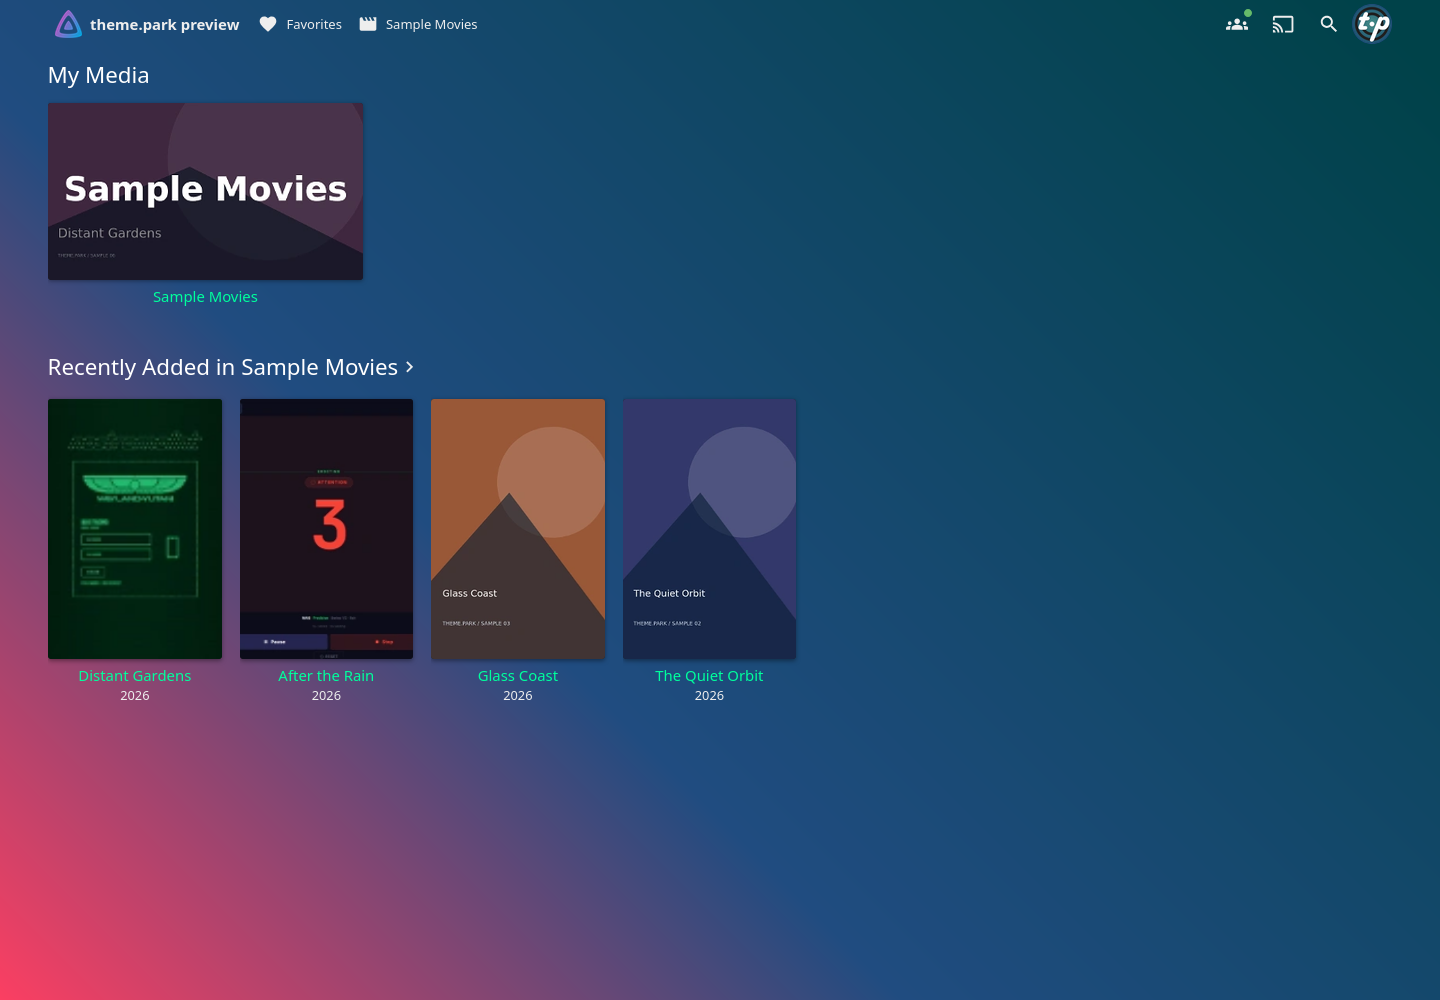
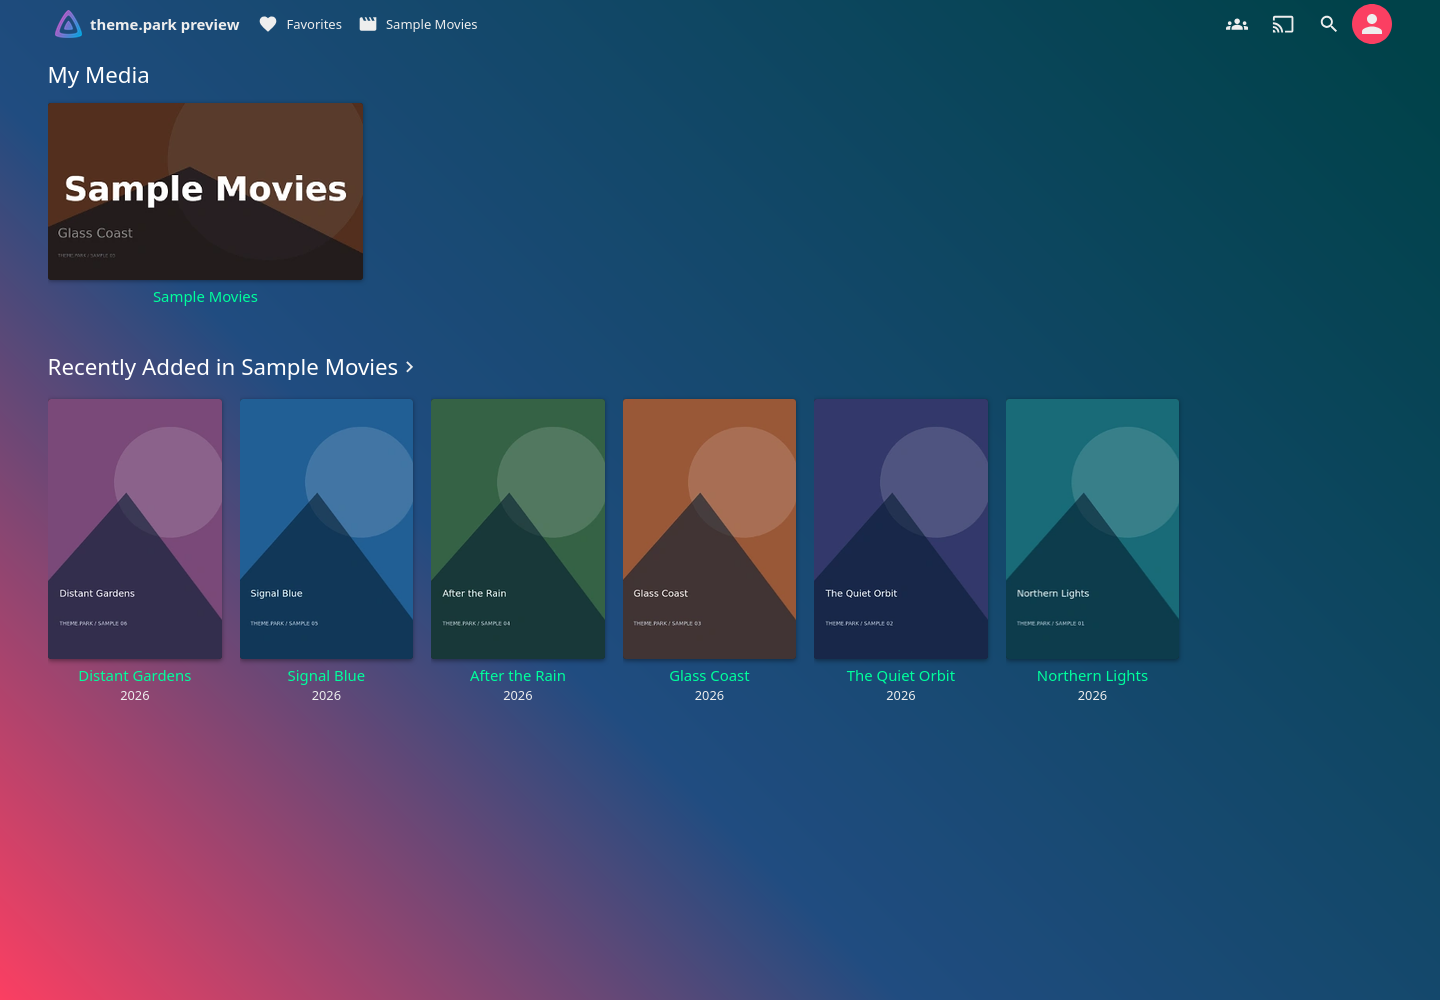
Use clean sample artwork and clarify subfiltering

Changed region(s): [[0.0312, 0.372, 0.8438, 0.713], [0.0312, 0.093, 0.25, 0.248], [0.9375, 0.0, 0.9688, 0.062]]

diff --git a/docs/themes/jellyfin.md b/docs/themes/jellyfin.md
@@ -9,6 +9,9 @@ Custom [{{ page.title.split()[0] }}](https://github.com/jellyfin/jellyfin) CSS
 
 ## 🛠 Installation
 
+Choose one method below. Use subfiltering if you want the dashboard
+themed too.
+
 ### Built-in Custom CSS
 
 These screenshots show Jellyfin 12.0.
@@ -26,21 +29,22 @@ For example, Nord:
 @import url("https://theme-park.dev/css/base/jellyfin/nord.css");
 ```
 
-### Include the dashboard
+### Subfiltering, including the dashboard
 
 Jellyfin 12 does not load its Custom CSS setting in the admin dashboard.
-To theme those pages too, use [reverse-proxy subfiltering](/setup/#nginx).
-For nginx, inject the chosen theme into the web client HTML:
+To theme those pages too, use [subfiltering](/setup/#subfiltering) instead of
+the built-in method. Remove any theme.park import from **Custom CSS code**
+and save before switching.
 
-```nginx
-proxy_set_header Accept-Encoding "";
-sub_filter '</head>' '<link rel="stylesheet" href="https://theme-park.dev/css/base/jellyfin/nord.css"></head>';
-sub_filter_once on;
+Follow the setup guide for your reverse proxy and inject this stylesheet into
+the web client HTML, replacing `<THEME>` with your selected theme option:
+
+```text
+https://theme-park.dev/css/base/jellyfin/<THEME>.css
 ```
 
-Add this to the location that serves the web client. Keep API, media, and
-WebSocket proxy configuration separate. Use one injection method to avoid
-loading duplicate themes.
+Keep injection out of API, media, and WebSocket responses. Subfiltering themes
+both regular pages and the dashboard without a second import in Jellyfin.
 
 {% set addons = extra.addons %}
 {% set title = page.title.split()[0].lower() %}
